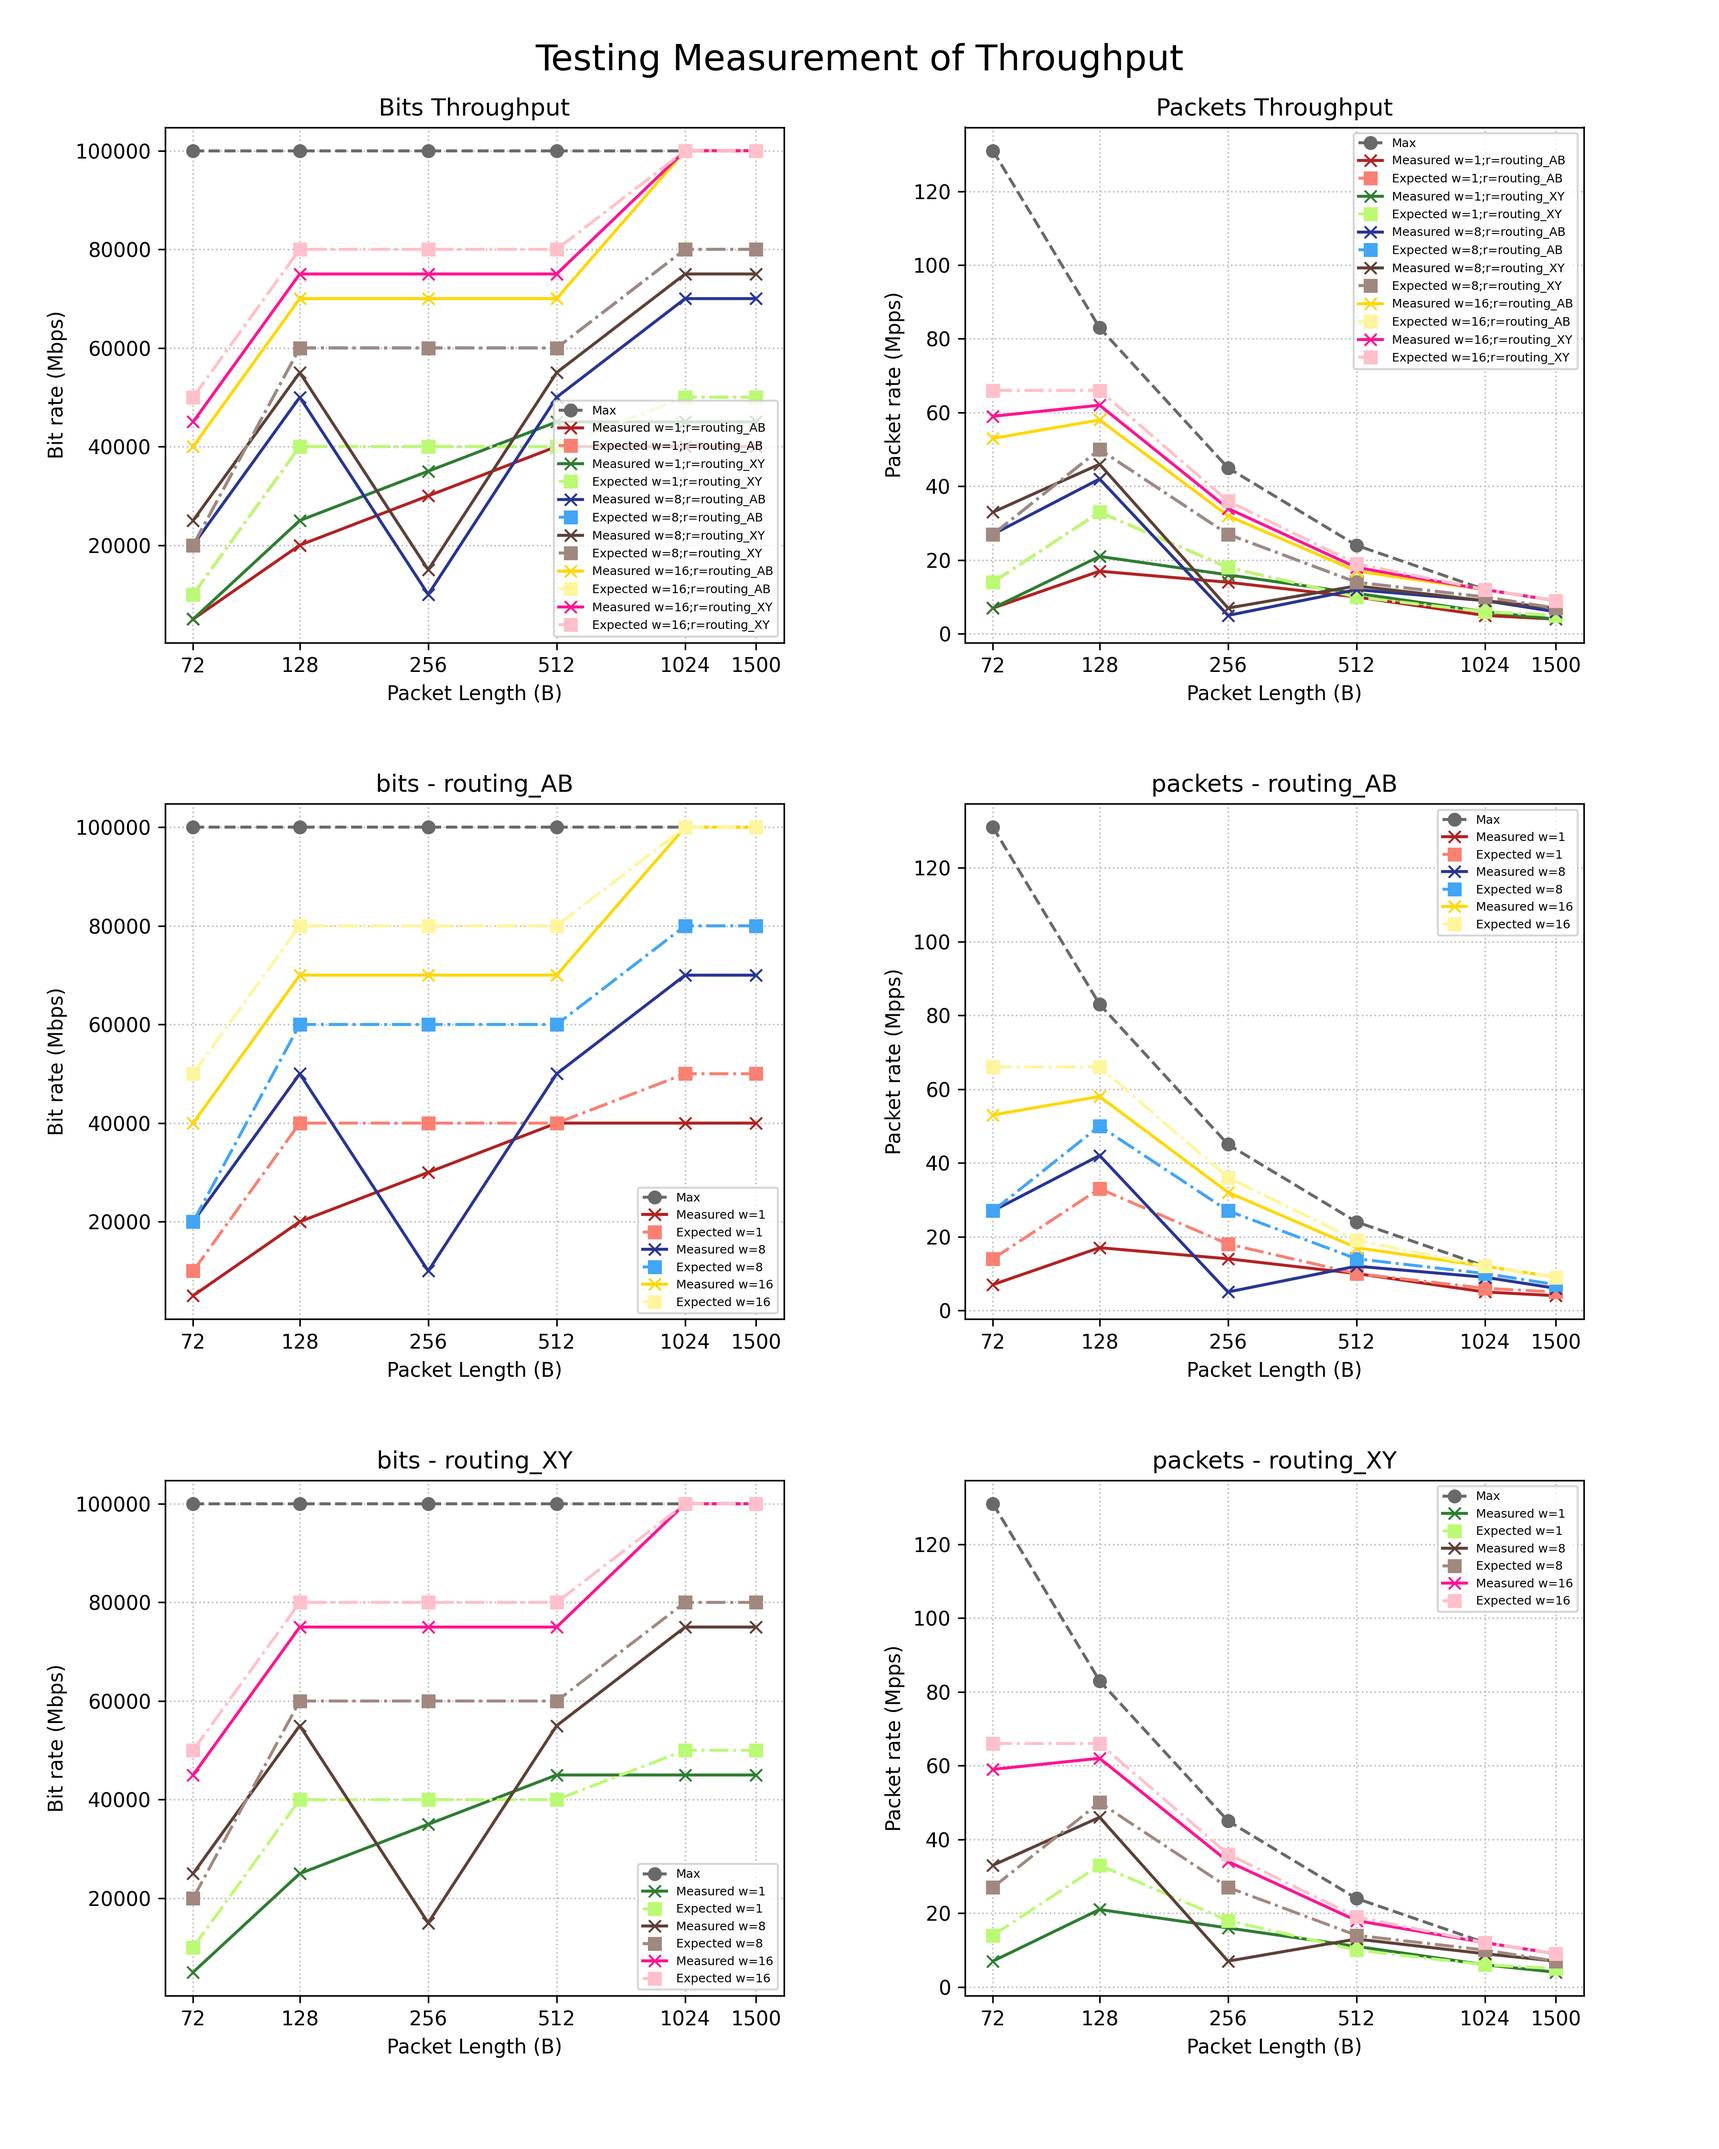
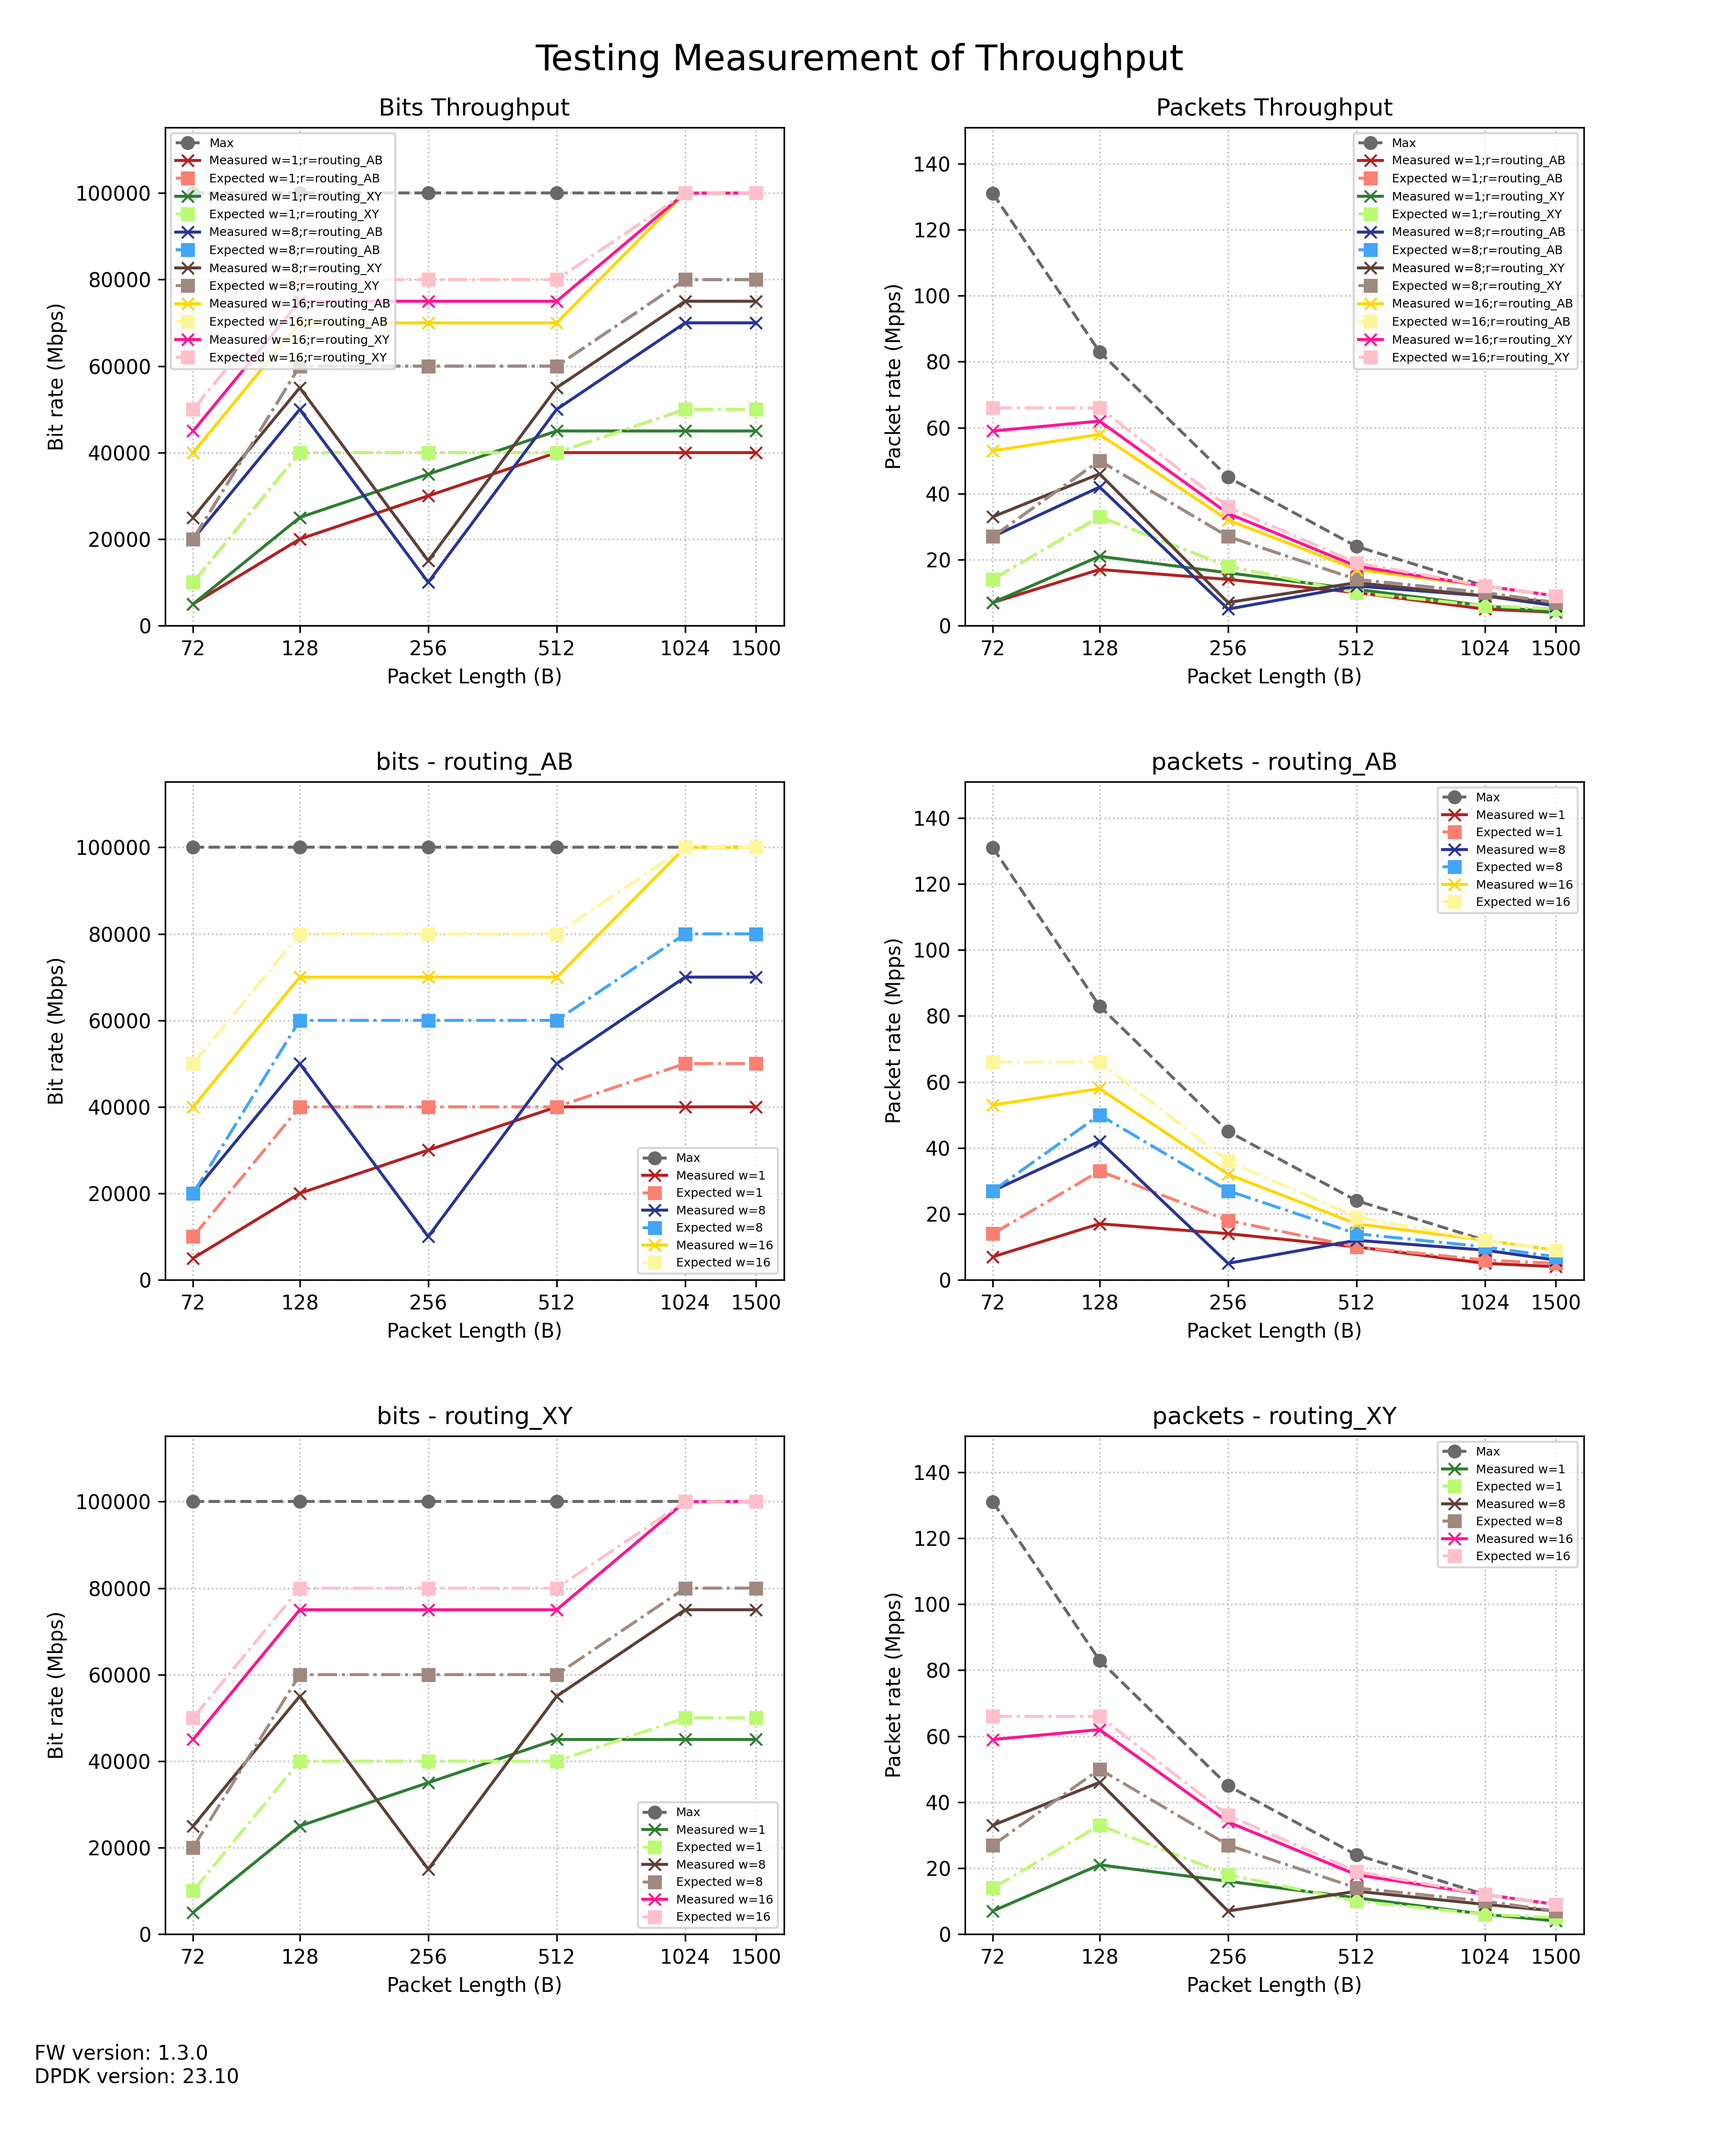
examples: write custom info complex charts
This is a showcase how the create_charts method can be used.

diff --git a/examples/data_table/test_charts_complex.py b/examples/data_table/test_charts_complex.py
@@ -11,6 +11,7 @@ for all measurements and separately for routing modes.
 
 import logging
 
+import matplotlib.pyplot as plt
 import pytest
 from pytest_cases import fixture, parametrize
 
@@ -173,7 +174,12 @@ def store_charts(measurements, png_file):
     ch.set_data(measurements)
 
     global_logger.debug(f"Storing charts to: {png_file}")
-    ch.store_charts(png_file, title="Testing Measurement of Throughput")
+    fig = ch.create_charts(title="Testing Measurement of Throughput")
+    # create custom info below the charts
+    fig.text(0.02, 0.02, f"FW version: 1.3.0\nDPDK version: 23.10\n")
+    # create a bit space for the info at the bottom of figure
+    plt.subplots_adjust(bottom=0.1)
+    fig.savefig(png_file)
 
 
 @fixture(scope="module")
